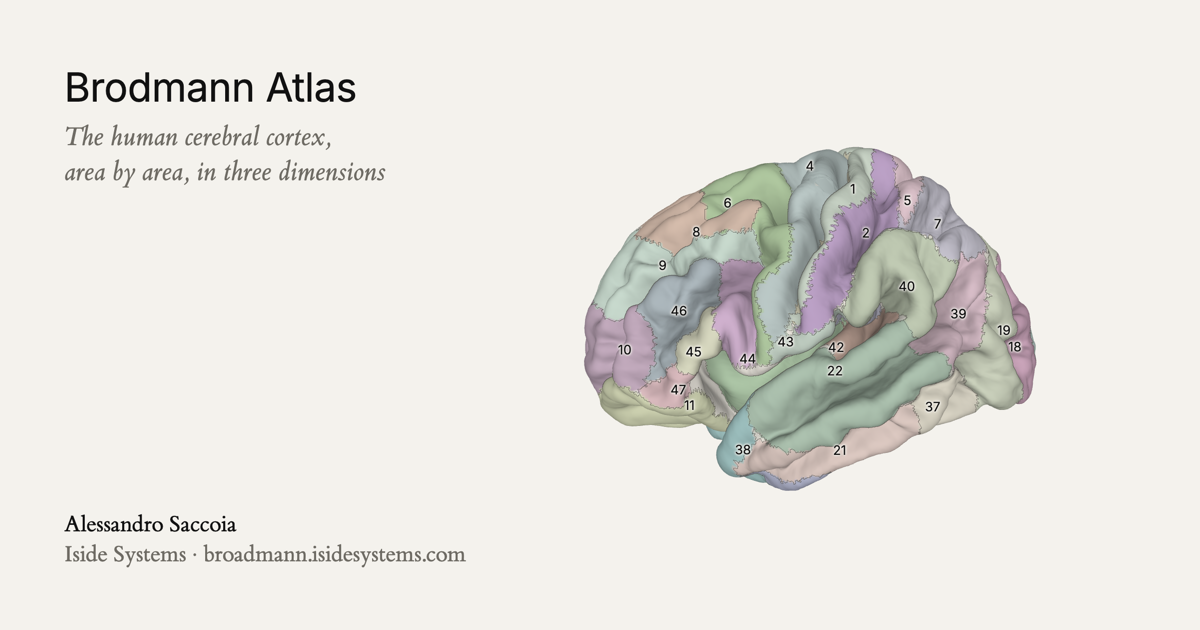
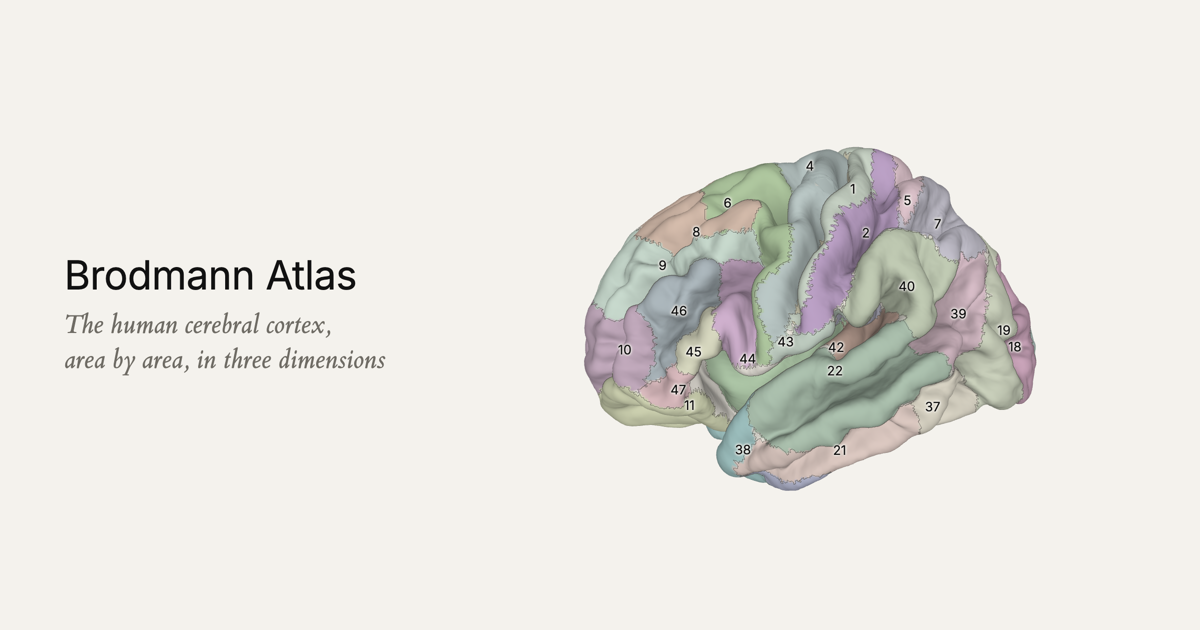
Social card: title and subtitle only, vertically centred

diff --git a/web/index.html b/web/index.html
@@ -13,17 +13,17 @@
 <meta property="og:title" content="Brodmann Atlas: the human cerebral cortex in 3D">
 <meta property="og:description" content="An interactive 3D atlas of Brodmann's areas and the gyri of the human cerebral cortex, with MRI sections and the original plates of 1909. By Alessandro Saccoia, Iside Systems.">
 <meta property="og:url" content="https://broadmann.isidesystems.com/">
-<meta property="og:image" content="https://broadmann.isidesystems.com/assets/og.png">
+<meta property="og:image" content="https://broadmann.isidesystems.com/assets/og.png?v=2">
 <meta property="og:image:width" content="1200">
 <meta property="og:image:height" content="630">
-<meta property="og:image:alt" content="Lateral view of the human brain with Brodmann's areas outlined and numbered. Brodmann Atlas, by Alessandro Saccoia, Iside Systems.">
+<meta property="og:image:alt" content="Lateral view of the human brain with Brodmann's areas outlined and numbered.">
 <meta property="og:locale" content="en_GB">
 <meta property="article:author" content="Alessandro Saccoia">
 <meta name="twitter:card" content="summary_large_image">
 <meta name="twitter:title" content="Brodmann Atlas: the human cerebral cortex in 3D">
 <meta name="twitter:description" content="An interactive 3D atlas of Brodmann's areas and the gyri of the human cerebral cortex, with MRI sections and the original plates of 1909. By Alessandro Saccoia, Iside Systems.">
-<meta name="twitter:image" content="https://broadmann.isidesystems.com/assets/og.png">
-<script type="application/ld+json">{"@context":"https://schema.org","@type":"WebApplication","name":"Brodmann Atlas","url":"https://broadmann.isidesystems.com/","description":"An interactive 3D atlas of Brodmann's areas and the gyri of the human cerebral cortex, with MRI sections and the original plates of 1909. By Alessandro Saccoia, Iside Systems.","applicationCategory":"EducationalApplication","inLanguage":"en","isAccessibleForFree":true,"dateCreated":"2026","image":"https://broadmann.isidesystems.com/assets/og.png","author":{"@type":"Person","name":"Alessandro Saccoia"},"publisher":{"@type":"Organization","name":"Iside Systems","url":"https://www.isidesystems.com/"}}</script>
+<meta name="twitter:image" content="https://broadmann.isidesystems.com/assets/og.png?v=2">
+<script type="application/ld+json">{"@context":"https://schema.org","@type":"WebApplication","name":"Brodmann Atlas","url":"https://broadmann.isidesystems.com/","description":"An interactive 3D atlas of Brodmann's areas and the gyri of the human cerebral cortex, with MRI sections and the original plates of 1909. By Alessandro Saccoia, Iside Systems.","applicationCategory":"EducationalApplication","inLanguage":"en","isAccessibleForFree":true,"dateCreated":"2026","image":"https://broadmann.isidesystems.com/assets/og.png?v=2","author":{"@type":"Person","name":"Alessandro Saccoia"},"publisher":{"@type":"Organization","name":"Iside Systems","url":"https://www.isidesystems.com/"}}</script>
 <link rel="icon" href="assets/favicon-32.png" sizes="32x32">
 <link rel="icon" href="assets/favicon.svg" type="image/svg+xml">
 <link rel="apple-touch-icon" href="assets/apple-touch-icon.png">

diff --git a/pipeline/og/card.html b/pipeline/og/card.html
@@ -7,16 +7,13 @@
 @font-face{font-family:"ET Book";font-style:italic;src:url("/web/fonts/et-book-italic.woff") format("woff")}
 html,body{margin:0;width:1200px;height:630px;overflow:hidden;background:#f4f2ed;color:#111}
 iframe{position:absolute;left:380px;top:-30px;width:860px;height:690px;border:0}
-div{position:absolute;left:64px;top:64px;bottom:60px;width:420px;display:flex;flex-direction:column}
+div{position:absolute;left:64px;top:0;bottom:0;width:420px;display:flex;flex-direction:column;justify-content:center}
 h1{margin:0;font:400 40px/1.15 "Inter",sans-serif;letter-spacing:-.01em}
 p{margin:0;font:400 27px/1.3 "ET Book",serif}
 .sub{font-style:italic;color:#6e6b64;margin-top:10px}
-.by{margin-top:auto;font-size:23px}
-.by span{color:#6e6b64}
 </style></head><body>
 <iframe src="/web/index.html" id="f"></iframe>
-<div><h1>Brodmann Atlas</h1><p class="sub">The human cerebral cortex,<br>area by area, in three dimensions</p>
-<p class="by">Alessandro Saccoia<br><span>Iside Systems · broadmann.isidesystems.com</span></p></div>
+<div><h1>Brodmann Atlas</h1><p class="sub">The human cerebral cortex,<br>area by area, in three dimensions</p></div>
 <script>
 document.getElementById("f").addEventListener("load", (e) => {
   const d = e.target.contentDocument, s = d.createElement("style");
